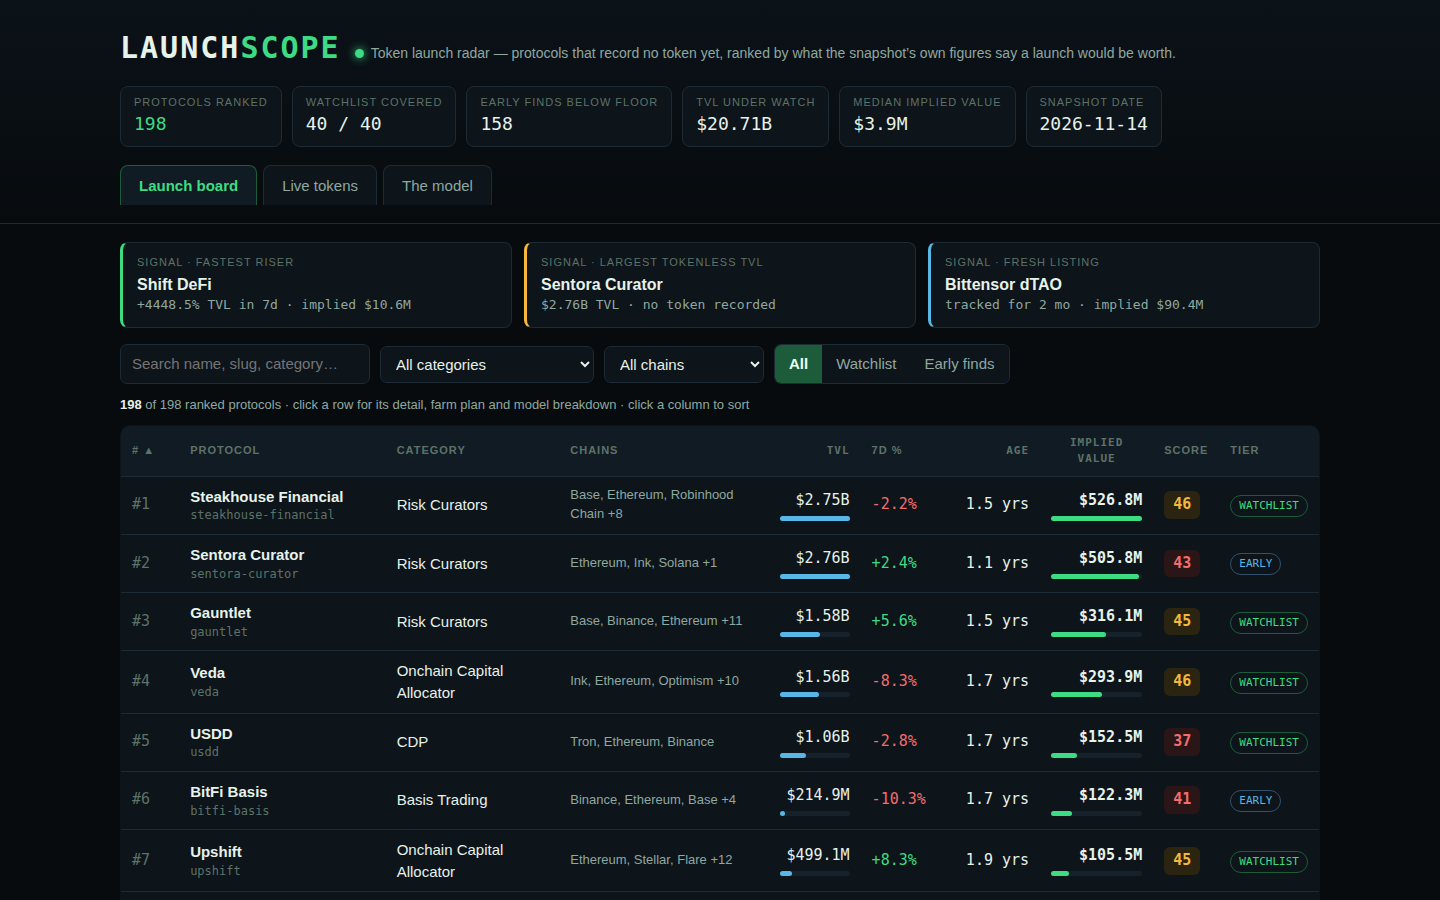
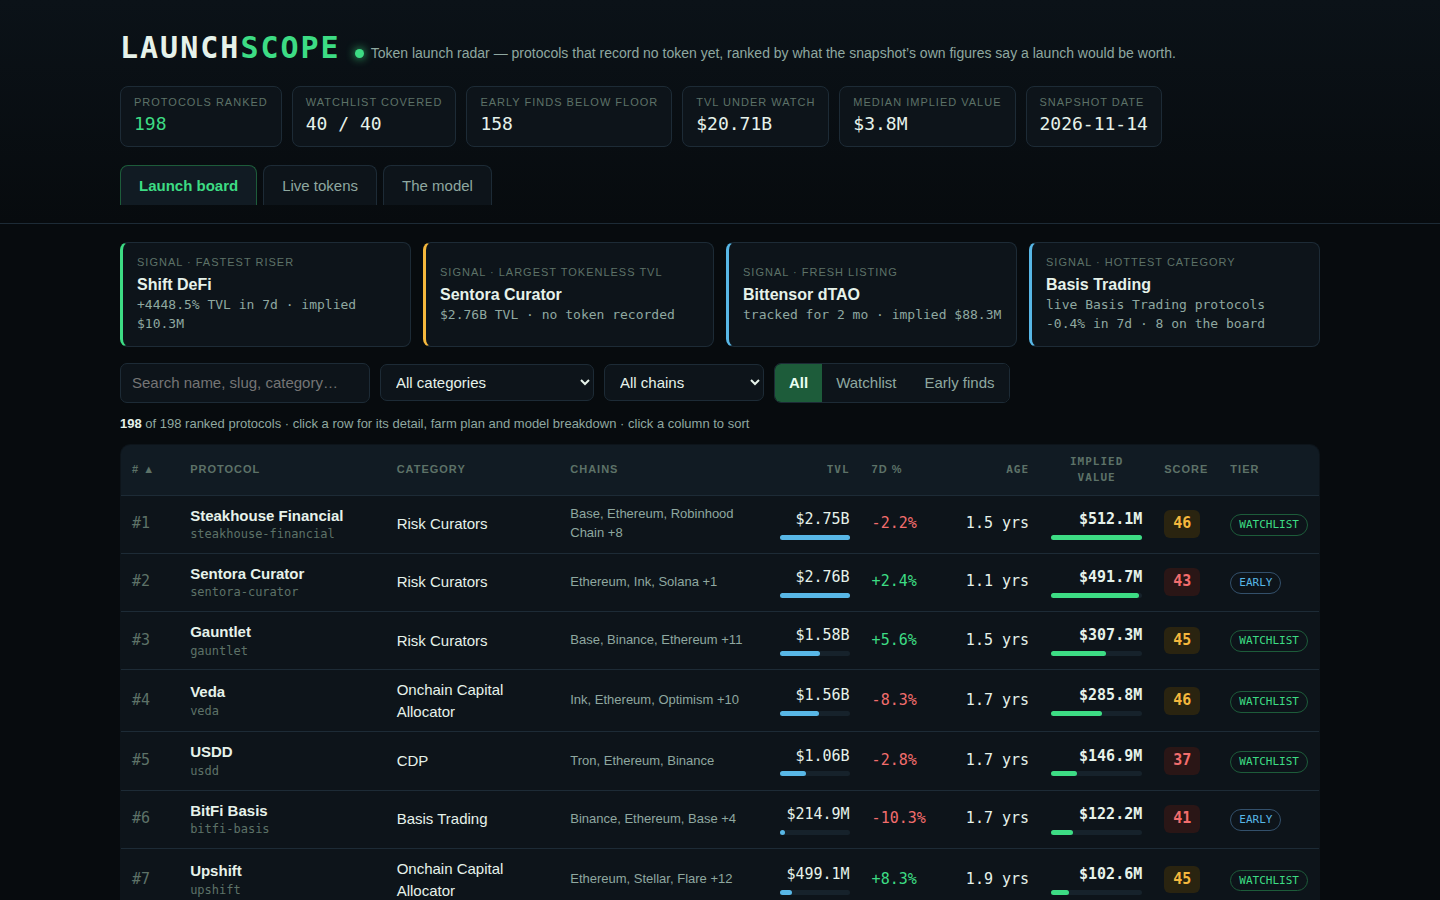
LaunchScope: category momentum factor (model launchscope-3)
Price each category's direction of travel into the implied value: the
median 7-day TVL change of its live-token protocols (global median when
a category has too few live comps reporting one), weighted 0.3 and
clamped to [-50, +100]. On the sealed snapshot this re-ranks 41 of 198
rows; the top 5 hold their order with lower values in a cooling market
(global momentum -8.8%).

Dashboard: a fourth signal card for the hottest category by live-token
momentum, a Category momentum row in every protocol's model breakdown,
a cooling-category risk note, and a Median 7d change column plus the
momentum formula on the model page. The sandbox recomputes implied
values with the new factor. Screenshots regenerated from the new build.

diff --git a/lib/model.ts b/lib/model.ts
@@ -17,7 +17,13 @@
 //                 run for years at size with no token is a stronger launch
 //                 candidate than a week-old one (unknown age counts as 365 days)
 //   reach       = 1 + 0.02 x min(chains - 1, 5) — multi-chain presence, capped
-//   implied     = max(1, round(base x growthMult x endurance x reach))
+//   momentum    = the category's own direction of travel: the median 7-day TVL
+//                 change of its live-token protocols (the global median when a
+//                 category has too few live comps reporting one);
+//                 momentumMult = 1 + clamp(momentum, -50, 100)/100 x 0.3, so a
+//                 sector whose live tokens are growing lifts its pre-token
+//                 names, and a cooling sector discounts them
+//   implied     = max(1, round(base x growthMult x endurance x reach x momentumMult))
 //
 // A separate radar score (0-100) grades launch readiness from size, momentum,
 // endurance, reach and category heat. It is shown beside the value, never used
@@ -63,6 +69,7 @@ export interface ModelConstants {
   multiple_floor: number;
   multiple_cap: number;
   min_category_comps: number;
+  momentum_weight: number;
 }
 
 export const MODEL: ModelConstants = {
@@ -78,10 +85,11 @@ export const MODEL: ModelConstants = {
   multiple_floor: 0.04,
   multiple_cap: 2.5,
   min_category_comps: 3,
+  momentum_weight: 0.3,
 };
 
 /** The model's version label: the dashboard names it and board.json carries it. */
-export const MODEL_VERSION = 'launchscope-2';
+export const MODEL_VERSION = 'launchscope-3';
 
 /** How many live-token protocols the dashboard's Live view carries, by market cap. */
 export const LIVE_ROWS = 30;
@@ -113,6 +121,10 @@ export interface BoardRow {
     growth_multiplier: number;
     endurance_multiplier: number;
     reach_multiplier: number;
+    category_momentum_pct: number;
+    momentum_multiplier: number;
+    momentum_source: 'category' | 'global';
+    momentum_comps: number;
     age_days: number | null;
   };
   farm_steps: string[];
@@ -131,12 +143,14 @@ export interface LiveRow {
   tvl_multiple: number | null;
 }
 
-/** One category's comp set: how the market prices that sector's TVL today. */
+/** One category's comp set: how the market prices that sector's TVL today, and how fast its live tokens' TVL is moving. */
 export interface CategoryStat {
   category: string;
   live_protocols: number;
   median_multiple: number;
   board_protocols: number;
+  median_change_7d: number | null;
+  momentum_source: 'category' | 'global';
 }
 
 /** Everything the dashboard renders, written to data.js by main.ts. */
@@ -147,6 +161,7 @@ export interface RadarData {
   model: ModelConstants;
   model_version: string;
   global_multiple: number;
+  global_momentum_pct: number;
   watchlist_size: number;
   board_size: number;
   early_size: number;
@@ -249,6 +264,48 @@ export function compMultiples(snapshot: Snapshot, model: ModelConstants = MODEL)
   return { global, byCategory };
 }
 
+/** The category momentum the snapshot's live-token protocols imply, global and per category. */
+export interface Momentum {
+  global: number;
+  byCategory: Map<string, { momentum: number; comps: number; source: 'category' | 'global' }>;
+}
+
+/**
+ * Category momentum: the median 7-day TVL change of the live-token protocols
+ * in a category — the sector's own direction of travel, priced by the market
+ * the same way the category multiple is. A category with too few live comps
+ * reporting a 7-day change falls back to the global median, so no protocol is
+ * priced on a single noisy reading.
+ */
+export function categoryMomentum(snapshot: Snapshot, model: ModelConstants = MODEL): Momentum {
+  const changesByCategory = new Map<string, number[]>();
+  const all: number[] = [];
+  for (const p of snapshot.protocols) {
+    if (isPreToken(p) || p.change_7d === null || !Number.isFinite(p.change_7d)) continue;
+    all.push(p.change_7d);
+    const key = p.category ?? 'Uncategorised';
+    const list = changesByCategory.get(key) ?? [];
+    list.push(p.change_7d);
+    changesByCategory.set(key, list);
+  }
+  const global = median(all) ?? 0;
+  const byCategory = new Map<string, { momentum: number; comps: number; source: 'category' | 'global' }>();
+  for (const [key, changes] of changesByCategory) {
+    if (changes.length >= model.min_category_comps) {
+      byCategory.set(key, { momentum: median(changes)!, comps: changes.length, source: 'category' });
+    } else {
+      byCategory.set(key, { momentum: global, comps: changes.length, source: 'global' });
+    }
+  }
+  return { global, byCategory };
+}
+
+/** The momentum one protocol is priced with, how many live comps stand behind it, and which price it is. */
+function momentumFor(p: SnapshotProtocol, momentum: Momentum): { momentum: number; comps: number; source: 'category' | 'global' } {
+  const hit = momentum.byCategory.get(p.category ?? 'Uncategorised');
+  return hit ?? { momentum: momentum.global, comps: 0, source: 'global' };
+}
+
 /** The multiple one protocol is priced with, how many live comps stand behind it, and which price it is. */
 function multipleFor(p: SnapshotProtocol, multiples: Multiples): { multiple: number; comps: number; source: 'category' | 'global' } {
   const hit = multiples.byCategory.get(p.category ?? 'Uncategorised');
@@ -260,8 +317,9 @@ export function impliedValue(
   protocol: SnapshotProtocol,
   asOf: string,
   multiples: Multiples,
+  momentum: Momentum,
   model: ModelConstants = MODEL,
-): { implied: number; multiple: number; comps: number; source: 'category' | 'global'; growthPct: number; growthMult: number; enduranceMult: number; reachMult: number; age: number | null } {
+): { implied: number; multiple: number; comps: number; source: 'category' | 'global'; growthPct: number; growthMult: number; enduranceMult: number; reachMult: number; momentumPct: number; momentumMult: number; momentumSource: 'category' | 'global'; momentumComps: number; age: number | null } {
   const age = ageDays(asOf, protocol.listed_at);
   const { multiple, comps, source } = multipleFor(protocol, multiples);
   const growthPct = clamp(finite(protocol.change_7d, 0), model.growth_floor, model.growth_cap);
@@ -269,8 +327,11 @@ export function impliedValue(
   const ageForModel = age ?? model.unknown_age_days;
   const enduranceMult = model.endurance_floor + (clamp(ageForModel, 0, model.endurance_days) / model.endurance_days) * model.endurance_range;
   const reachMult = 1 + model.reach_per_chain * Math.min(Math.max(protocol.chains.length - 1, 0), model.reach_max_extra_chains);
-  const implied = Math.max(1, Math.round(protocol.tvl_usd * multiple * growthMult * enduranceMult * reachMult));
-  return { implied, multiple, comps, source, growthPct, growthMult, enduranceMult, reachMult, age };
+  const mom = momentumFor(protocol, momentum);
+  const momentumPct = clamp(mom.momentum, model.growth_floor, model.growth_cap);
+  const momentumMult = 1 + (momentumPct / 100) * model.momentum_weight;
+  const implied = Math.max(1, Math.round(protocol.tvl_usd * multiple * growthMult * enduranceMult * reachMult * momentumMult));
+  return { implied, multiple, comps, source, growthPct, growthMult, enduranceMult, reachMult, momentumPct, momentumMult, momentumSource: mom.source, momentumComps: mom.comps, age };
 }
 
 /** The radar score's five parts and their sum: launch readiness, 0 to 100. */
@@ -410,6 +471,7 @@ export function farmSteps(p: SnapshotProtocol, age: number | null): string[] {
 /** The protocols the board ranks, strongest first, with ranks 1..n. */
 export function buildBoard(snapshot: Snapshot, model: ModelConstants = MODEL): BoardRow[] {
   const multiples = compMultiples(snapshot, model);
+  const momentum = categoryMomentum(snapshot, model);
   const index = new Map(snapshot.protocols.map((p) => [p.slug, p]));
   const chosen = new Map<string, { p: SnapshotProtocol; tier: 'watchlist' | 'early' }>();
   // The watchlist is the floor: every slug is ranked, whatever the early filter says.
@@ -422,7 +484,7 @@ export function buildBoard(snapshot: Snapshot, model: ModelConstants = MODEL): B
     if (!chosen.has(p.slug) && isRankableEarly(p)) chosen.set(p.slug, { p, tier: 'early' });
   }
   const scored = [...chosen.values()].map(({ p, tier }) => {
-    const v = impliedValue(p, snapshot.as_of, multiples, model);
+    const v = impliedValue(p, snapshot.as_of, multiples, momentum, model);
     const s = radarScore(p, multiples, v.age, model);
     return { p, tier, v, s };
   });
@@ -453,6 +515,10 @@ export function buildBoard(snapshot: Snapshot, model: ModelConstants = MODEL): B
       growth_multiplier: round4(row.v.growthMult),
       endurance_multiplier: round4(row.v.enduranceMult),
       reach_multiplier: round4(row.v.reachMult),
+      category_momentum_pct: round4(row.v.momentumPct),
+      momentum_multiplier: round4(row.v.momentumMult),
+      momentum_source: row.v.momentumSource,
+      momentum_comps: row.v.momentumComps,
       age_days: row.v.age,
     },
     farm_steps: farmSteps(row.p, row.v.age),
@@ -479,7 +545,7 @@ export function liveRows(snapshot: Snapshot): LiveRow[] {
 }
 
 /** Per-category comp and board counts, for the dashboard's model section. */
-export function categoryStats(snapshot: Snapshot, board: BoardRow[], multiples: Multiples): CategoryStat[] {
+export function categoryStats(snapshot: Snapshot, board: BoardRow[], multiples: Multiples, momentum: Momentum): CategoryStat[] {
   const boardCounts = new Map<string, number>();
   for (const r of board) {
     const key = r.category ?? 'Uncategorised';
@@ -487,7 +553,15 @@ export function categoryStats(snapshot: Snapshot, board: BoardRow[], multiples: 
   }
   const stats: CategoryStat[] = [];
   for (const [category, info] of multiples.byCategory) {
-    stats.push({ category, live_protocols: info.comps, median_multiple: round4(info.multiple), board_protocols: boardCounts.get(category) ?? 0 });
+    const mom = momentum.byCategory.get(category) ?? { momentum: momentum.global, comps: 0, source: 'global' as const };
+    stats.push({
+      category,
+      live_protocols: info.comps,
+      median_multiple: round4(info.multiple),
+      board_protocols: boardCounts.get(category) ?? 0,
+      median_change_7d: mom.comps > 0 ? round4(mom.momentum) : null,
+      momentum_source: mom.source,
+    });
   }
   return stats.sort((a, b) => b.live_protocols - a.live_protocols || (a.category < b.category ? -1 : 1));
 }
@@ -495,6 +569,7 @@ export function categoryStats(snapshot: Snapshot, board: BoardRow[], multiples: 
 /** Everything the dashboard renders, from the snapshot. */
 export function buildRadar(snapshot: Snapshot, model: ModelConstants = MODEL): { board: BoardRow[]; radar: RadarData } {
   const multiples = compMultiples(snapshot, model);
+  const momentum = categoryMomentum(snapshot, model);
   const board = buildBoard(snapshot, model);
   const live = liveRows(snapshot);
   const radar: RadarData = {
@@ -504,11 +579,12 @@ export function buildRadar(snapshot: Snapshot, model: ModelConstants = MODEL): {
     model,
     model_version: MODEL_VERSION,
     global_multiple: round4(multiples.global),
+    global_momentum_pct: round4(momentum.global),
     watchlist_size: snapshot.watchlist.length,
     board_size: board.length,
     early_size: board.filter((r) => r.tier === 'early').length,
     live_size: live.length,
-    categories: categoryStats(snapshot, board, multiples),
+    categories: categoryStats(snapshot, board, multiples, momentum),
     rows: board,
     live,
   };

diff --git a/dashboard/app.js b/dashboard/app.js
@@ -60,7 +60,7 @@
     var age = row.age_days === null ? M.unknown_age_days : row.age_days;
     var range = sb ? M.endurance_range * sb.endurance : M.endurance_range;
     var enduranceMult = M.endurance_floor + (clamp(age, 0, M.endurance_days) / M.endurance_days) * range;
-    return Math.max(1, Math.round(row.tvl_usd * multiple * growthMult * enduranceMult * row.model.reach_multiplier));
+    return Math.max(1, Math.round(row.tvl_usd * multiple * growthMult * enduranceMult * row.model.reach_multiplier * row.model.momentum_multiplier));
   }
 
   /* ---------- routing / state ---------- */
@@ -176,6 +176,7 @@
     var byGrowth = DATA.rows.slice().sort(function (a, b) { return (b.change_7d || -999) - (a.change_7d || -999); })[0];
     var byTvl = DATA.rows.slice().sort(function (a, b) { return b.tvl_usd - a.tvl_usd; })[0];
     var fresh = DATA.rows.filter(function (r) { return r.age_days !== null && r.age_days <= 120; }).sort(function (a, b) { return b.implied_value_usd - a.implied_value_usd; })[0];
+    var hotCat = DATA.categories.filter(function (c) { return c.board_protocols > 0 && c.median_change_7d !== null; }).sort(function (a, b) { return b.median_change_7d - a.median_change_7d; })[0];
     function card(cls, k, row, d, fn) {
       return el('button', { type: 'button', class: 'signal ' + cls, onclick: fn }, [
         el('div', { class: 'k', text: k }), el('div', { class: 'v', text: row.name }), el('div', { class: 'd', text: d(row) }),
@@ -185,6 +186,7 @@
       card('', 'Signal · fastest riser', byGrowth, function (r) { return fmtPct(r.change_7d) + ' TVL in 7d · implied ' + fmtUsd(r.implied_value_usd); }, function () { state.sort = 'change'; state.dir = 1; go(boardHash()); }),
       card('amber', 'Signal · largest tokenless TVL', byTvl, function (r) { return fmtUsd(r.tvl_usd) + ' TVL · no token recorded'; }, function () { go('#/p/' + encodeURIComponent(byTvl.slug)); }),
       card('blue', 'Signal · fresh listing', fresh, function (r) { return 'tracked for ' + fmtAge(r.age_days) + ' · implied ' + fmtUsd(r.implied_value_usd); }, function () { state.sort = 'age'; state.dir = -1; go(boardHash()); }),
+      hotCat ? card('blue', 'Signal · hottest category', { name: hotCat.category }, function () { return 'live ' + hotCat.category + ' protocols ' + fmtPct(hotCat.median_change_7d) + ' in 7d · ' + hotCat.board_protocols + ' on the board'; }, function () { state.cat = hotCat.category; state.tier = 'all'; go(boardHash()); }) : null,
     ]);
   }
   function boardView() {
@@ -258,6 +260,7 @@
     if (r.change_7d !== null && r.change_7d < -10) notes.push(['red', 'TVL is falling fast (' + fmtPct(r.change_7d) + ' in 7 days). The growth factor already discounts the implied value; a falling protocol can also mean users are leaving before any launch.']);
     if (r.chains.length <= 1) notes.push(['amber', 'Single-chain presence: the reach factor is at its floor. A launch, if it comes, likely starts and ends on ' + (r.chains[0] || 'one chain') + '.']);
     if (r.model.multiple_source === 'global') notes.push(['amber', 'Thin comp set: ' + (r.category || 'its category') + ' has ' + (r.model.comps_used === 0 ? 'no live-token protocols' : 'only ' + r.model.comps_used + ' live comp' + (r.model.comps_used === 1 ? '' : 's')) + ' in the snapshot, so the implied value uses the global median multiple (' + DATA.global_multiple + '\u00D7 TVL) instead of a category price. Read it as rougher than its neighbours.']);
+    if (r.model.category_momentum_pct < -10) notes.push(['red', 'Cooling category: live ' + (r.category || 'Uncategorised') + ' protocols fell ' + fmtPct(r.model.category_momentum_pct) + ' in 7 days, so the momentum factor already discounts the implied value. A sector losing TVL can still launch a token — but it launches into a headwind.']);
     if (r.implied_value_usd / r.tvl_usd > 2) notes.push(['red', 'Rich implied multiple: the model prices this launch above 2\u00D7 current TVL. That is the category\u2019s market price carried over, not a promise — small errors in the multiple move this value a lot.']);
     if (notes.length === 0) notes.push(['amber', 'No structural flags: size, growth, age and reach are all inside the ranges the model handles well. The standing risk remains — the snapshot records no token, which is not proof none exists, and no model can say whether or when one is issued.']);
     return notes;
@@ -292,6 +295,7 @@
         kv('Growth factor', '\u00D7' + r.model.growth_multiplier + ' (7d change ' + fmtPct(r.model.growth_pct) + ', weight ' + M.growth_weight + ')'),
         kv('Endurance factor', '\u00D7' + r.model.endurance_multiplier + ' (' + fmtAge(r.age_days) + ' with no token)'),
         kv('Reach factor', '\u00D7' + r.model.reach_multiplier + ' (' + r.chains.length + ' chain' + (r.chains.length === 1 ? '' : 's') + ': ' + (r.chains.join(', ') || 'none recorded') + ')'),
+        kv('Category momentum', '\u00D7' + r.model.momentum_multiplier + ' (live ' + (r.category || 'Uncategorised') + ' protocols moved ' + fmtPct(r.model.category_momentum_pct) + ' in 7 days' + (r.model.momentum_source === 'category' ? ', median of ' + r.model.momentum_comps + ' live comps' : ', the global median: too few live comps in this category') + ')'),
         kv('Implied value', fmtUsd(r.implied_value_usd)),
       ]),
       el('h2', { class: 'sec', text: 'Radar score breakdown' }),
@@ -352,10 +356,11 @@
       el('h2', { class: 'sec', text: 'The model, in full — ' + DATA.model_version }),
       el('div', { class: 'formula' }, [
         document.createTextNode('multiple(category) = median market-cap / TVL of the live-token protocols in it (global median '), el('b', { text: DATA.global_multiple + '\u00D7' }), document.createTextNode(' when a category has under ' + M.min_category_comps + ' comps), clamped to [' + M.multiple_floor + ', ' + M.multiple_cap + ']'),
-        el('br'), document.createTextNode('implied = TVL \u00D7 multiple \u00D7 '), el('b', { text: 'growth' }), document.createTextNode(' \u00D7 '), el('b', { text: 'endurance' }), document.createTextNode(' \u00D7 '), el('b', { text: 'reach' }),
+        el('br'), document.createTextNode('implied = TVL \u00D7 multiple \u00D7 '), el('b', { text: 'growth' }), document.createTextNode(' \u00D7 '), el('b', { text: 'endurance' }), document.createTextNode(' \u00D7 '), el('b', { text: 'reach' }), document.createTextNode(' \u00D7 '), el('b', { text: 'momentum' }),
         el('br'), document.createTextNode('growth = 1 + clamp(7d change, ' + M.growth_floor + ', ' + M.growth_cap + ') / 100 \u00D7 ' + M.growth_weight),
         el('br'), document.createTextNode('endurance = ' + M.endurance_floor + ' + ' + M.endurance_range + ' \u00D7 min(tokenless days, ' + M.endurance_days + ') / ' + M.endurance_days + '  (unknown age counts ' + M.unknown_age_days + ' days)'),
         el('br'), document.createTextNode('reach = 1 + ' + M.reach_per_chain + ' \u00D7 min(chains \u2212 1, ' + M.reach_max_extra_chains + ')'),
+        el('br'), document.createTextNode('momentum = 1 + clamp(category 7d change, ' + M.growth_floor + ', ' + M.growth_cap + ') / 100 \u00D7 ' + M.momentum_weight + '  (median 7d TVL change of the category\u2019s live-token protocols; the global median ' + fmtPct(DATA.global_momentum_pct) + ' when a category has under ' + M.min_category_comps + ' live comps reporting one)'),
       ]),
       el('p', { class: 'note', text: 'One function scores every protocol; no name is special-cased and no row is hand-picked. The board covers all ' + DATA.watchlist_size + ' watchlist protocols and adds ' + DATA.early_size + ' early finds below the ' + fmtUsd(DATA.floor_usd) + ' floor, excluding wrapped, staked, bridged and versioned products of tokens that already trade. The radar score (size 30, momentum 20, endurance 20, category heat 20, reach 10) grades launch readiness and never changes the ranking, which is by implied value alone.' }),
       el('h2', { class: 'sec', text: 'Re-run it yourself — the sandbox' }),
@@ -368,11 +373,12 @@
       top10,
       el('h2', { class: 'sec', text: 'Category multiples — the market\u2019s own prices, from this snapshot' }),
       el('table', { class: 'board' }, [
-        el('thead', {}, [el('tr', {}, [el('th', { text: 'Category' }), el('th', { class: 'num', text: 'Live comps' }), el('th', { class: 'num', text: 'Median multiple' }), el('th', { class: 'num', text: 'Protocols on board' })])]),
+        el('thead', {}, [el('tr', {}, [el('th', { text: 'Category' }), el('th', { class: 'num', text: 'Live comps' }), el('th', { class: 'num', text: 'Median multiple' }), el('th', { class: 'num', text: 'Median 7d change' }), el('th', { class: 'num', text: 'Protocols on board' })])]),
         el('tbody', {}, DATA.categories.map(function (c) {
-          return el('tr', {}, [el('td', { text: c.category }), el('td', { class: 'num', text: String(c.live_protocols) }), el('td', { class: 'num', text: c.median_multiple + '\u00D7' }), el('td', { class: 'num', text: String(c.board_protocols) })]);
+          return el('tr', {}, [el('td', { text: c.category }), el('td', { class: 'num', text: String(c.live_protocols) }), el('td', { class: 'num', text: c.median_multiple + '\u00D7' }), el('td', { class: pctClass(c.median_change_7d), text: fmtPct(c.median_change_7d) + (c.momentum_source === 'global' ? ' *' : '') }), el('td', { class: 'num', text: String(c.board_protocols) })]);
         })),
       ]),
+      el('p', { class: 'note', text: '* A category with under ' + M.min_category_comps + ' live comps reporting a 7-day change uses the global median (' + fmtPct(DATA.global_momentum_pct) + ') for its momentum.' }),
     ]);
     shell(main);
     drawTop();

diff --git a/dashboard/app.css b/dashboard/app.css
@@ -51,7 +51,7 @@ nav.tabs button {
 nav.tabs button[aria-pressed="true"] { background: var(--panel-2); color: var(--green); border-color: var(--green-dim); font-weight: 600; }
 
 /* Signal strip */
-.signals { display: grid; grid-template-columns: repeat(3, 1fr); gap: 12px; margin: 18px 0 4px; }
+.signals { display: grid; grid-template-columns: repeat(auto-fit, minmax(220px, 1fr)); gap: 12px; margin: 18px 0 4px; }
 .signal { background: var(--panel); border: 1px solid var(--line); border-left: 3px solid var(--green); border-radius: 8px; padding: 12px 14px; cursor: pointer; text-align: left; width: 100%; }
 .signal:hover { border-color: var(--green-dim); }
 .signal.amber { border-left-color: var(--amber); }

diff --git a/README.md b/README.md
@@ -12,18 +12,24 @@ snapshot carries — the early finds below the $50M floor are the point of a
 radar — while protocols whose token already trades are kept apart in a Live
 view and never ranked.
 
-**The model** (version `launchscope-2`, restated in full inside the
+**The model** (version `launchscope-3`, restated in full inside the
 dashboard): the market itself prices each category. For every live-token
 protocol in the snapshot, market cap ÷ TVL is computed; a category's multiple
 is the median of its live protocols. A pre-token protocol's implied value is
 then
 
 ```
-implied = TVL × category multiple × growth × endurance × reach
+implied = TVL × category multiple × growth × endurance × reach × momentum
 growth    = 1 + clamp(7-day TVL change, −50, +100)/100 × 0.6
 endurance = 0.72 + 0.28 × min(days with no token, 1460)/1460
 reach     = 1 + 0.02 × min(chains − 1, 5)
+momentum  = 1 + clamp(category 7-day change, −50, +100)/100 × 0.3
 ```
+
+The momentum factor is the category's own direction of travel: the median
+7-day TVL change of its live-token protocols (the global median when a
+category has too few live comps reporting one). A sector whose live tokens are
+growing lifts its pre-token names; a cooling sector discounts them.
 
 Alongside the value, each row carries a 0–100 radar score for launch
 readiness (size, momentum, endurance, category heat, reach). The score never
@@ -33,8 +39,8 @@ model page lets a reader re-run the ranking with different weights, live.
 
 **The dashboard** is a static page with no framework and no network: a
 sortable, filterable board (search, category, chain, watchlist/early tiers,
-plus three signal cards for the fastest riser, the largest tokenless TVL and
-a fresh listing), a detail view per protocol with the full model breakdown,
+plus four signal cards for the fastest riser, the largest tokenless TVL, a
+fresh listing and the hottest category by live-token momentum), a detail view per protocol with the full model breakdown,
 generated risk notes, its live category comps and a seven-step farm plan with
 a cost and a time on every step, a Live tokens view, and the model page with
 the category-multiple table and sandbox.
